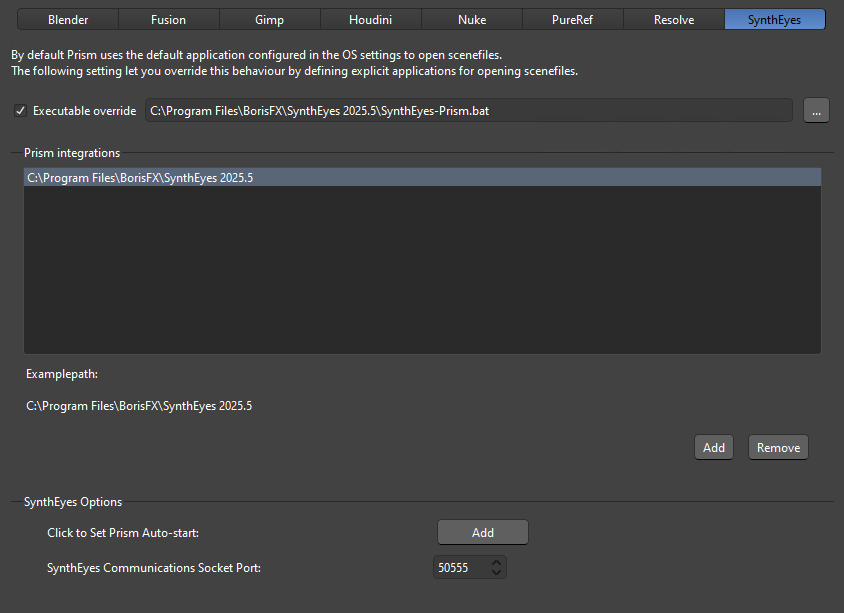
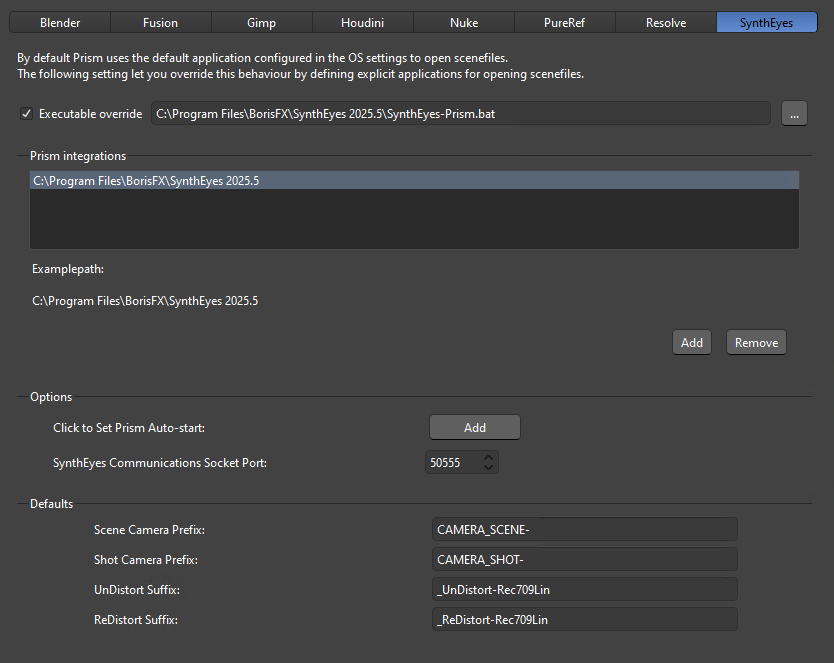
Updated Docs for  Naming Defaults #60  #61

diff --git a/Docs/Rendering.md b/Docs/Rendering.md
@@ -42,7 +42,8 @@ The STMap state renders SynthEyes distortion maps (STMaps). This is similar to t
 
 ### **Options**
 - **Single / Sequence:**  Selects either single-image Distortion maps, or an image sequence. 
-- **Map Types:**  Select which type of STMaps to render.  Each type will be rendered into a separate Media Identifier in Prism.  Each Identifier name will have '_UnDistort-Rec709Lin' or '_ReDistort-Rec709Lin' appended as a suffix.
+- **Map Types:**  Select which type of STMaps to render.  Each type will be rendered into a separate Media Identifier in Prism.
+- **Naming:** Each Identifier name will have a suffix appended to the Identifier name based on the STMap type.  The default prefix's can be configured in the Prism SynthEyes DCC settings (see [**Interface**](Interface.md)).
 
 > [!NOTE]  
 > Dev Note:  This uses the SynthEyes Sizzle functions 'WriteRedistortImage' and 'WriteUndistortImage'.  This allows a user to select which STMaps are desired.  For image sequences the SynthEyes docs describe the existence of 'WriteRedistortSequence' and 'WriteUndistortSequence', but I am unable to get either to work without errors.  So unfortunately for sequences there is just a loop to render every frame separately, which is slow.  Thus unless a sequence is needed for changing distortion (such as a zoom or a breathing focus-pull), it is recommended to render a single image.

diff --git a/Docs/AddShots.md b/Docs/AddShots.md
@@ -50,9 +50,11 @@ There are several ways to select the media:
 
 When a Scene or Shot is imported, a camera is created in SynthEyes.  For better organization, the AddShot state will rename the camera.  The new camera name will have a prefix based on the type of import and then append the Media Identifier name and version.
 
-- New Scene: 'CAMERA_SCENE'
-- Add Shot: 'CAMERA_SHOT'
+> [!NOTE]
+> The default prefix's can be configured in the Prism SynthEyes DCC settings (see [**Interface**](Interface.md)).
 
+ <br/>
+ 
 ![CamName Original](DocsImages/AddShot-CamName_Orig.png)&nbsp;&nbsp;&nbsp;&nbsp;&nbsp;&nbsp;&nbsp;![CamName Renamed](DocsImages/AddShot-CamName_Rename.png)
 
 When changing the version of the shot's images, if the version string exists in the camera name it will be updated.

diff --git a/Docs/Interface.md b/Docs/Interface.md
@@ -55,6 +55,8 @@ The SynthEyes plugin has several functions that are user configurable from the P
 
 - **SynthEyes Communications Socket Port:**  The localhost port used for SynthEyes-Prism menu communications.  There is usually not a need to change this unless there is another process that is using the port and causing conflicts. (see **Dev Notes** below for more information).
 
+- **Defaults:**  Sets the default prefix/suffix for auto-created names (see [**Adding Shots**](AddShots.md) and [**STMaps**](Rendering.md)).
+
 <br/>
 
 ## **Dev Notes**
